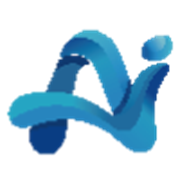
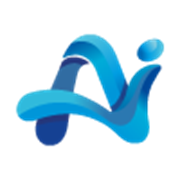
홈 화면 설치 버튼 추가 + 앱 아이콘 로고 교체
- 하단 탭 혜택 옆에 "설치" 버튼 추가: 지원 브라우저는 네이티브 설치
  프롬프트를 띄우고, 그 외(iOS 등)는 홈 화면 추가 방법을 안내하는
  모달을 보여줌. 이미 설치된 상태면 버튼은 숨김
- 설치 가능성을 높이기 위해 최소 서비스워커(sw.js, 프로덕션 전용 등록)와
  iOS PWA 메타태그 추가
- 새로 전달받은 로고로 파비콘/앱 아이콘 전체 재생성

Changed region(s): [[0.0278, 0.1389, 0.9722, 0.8611]]

diff --git a/src/components/InstallButton.tsx b/src/components/InstallButton.tsx
@@ -1,0 +1,116 @@
+import { useState } from "react";
+import { createPortal } from "react-dom";
+import { useInstallPrompt } from "../hooks/useInstallPrompt";
+import { logEvent } from "../lib/analytics";
+import styles from "./InstallButton.module.scss";
+
+export function InstallButton() {
+	const { installed, canPrompt, isIos, promptInstall } = useInstallPrompt();
+	const [showGuide, setShowGuide] = useState(false);
+	// Not a real page like the other tabs, so there's no "current tab" to
+	// stay highlighted — it's just pressed-feedback for as long as the
+	// install prompt/guide is open, then back to gray once that's done,
+	// whether the visitor installed or cancelled.
+	const [pressed, setPressed] = useState(false);
+
+	// Already running as an installed app — nothing left to offer.
+	if (installed) return null;
+
+	function closeGuide() {
+		setShowGuide(false);
+		setPressed(false);
+	}
+
+	async function handleClick() {
+		setPressed(true);
+		if (canPrompt) {
+			const outcome = await promptInstall();
+			logEvent("install_prompt", { outcome });
+			setPressed(false);
+			return;
+		}
+		logEvent("install_guide_open", { platform: isIos ? "ios" : "other" });
+		setShowGuide(true);
+	}
+
+	return (
+		<>
+			<li>
+				<button
+					type="button"
+					className={`${styles.link} ${pressed ? styles.active : ""}`}
+					onClick={handleClick}
+				>
+					<i className="fas fa-download" />
+					설치
+				</button>
+			</li>
+
+			{showGuide &&
+				createPortal(
+					<div className={styles.overlay} onClick={closeGuide}>
+						<div className={styles.card} onClick={(e) => e.stopPropagation()}>
+							<button
+								type="button"
+								className={styles.close}
+								onClick={closeGuide}
+								aria-label="닫기"
+							>
+								<i className="fas fa-times" />
+							</button>
+
+							<h4 className={styles.title}>홈 화면에 추가하기</h4>
+							<p className={styles.desc}>
+								앱처럼 아이콘을 눌러 바로 열 수 있도록 홈 화면에 추가해보세요.
+							</p>
+
+							{isIos ? (
+								<ol className={styles.steps}>
+									<li>
+										<span className={styles.stepIcon}>
+											<i className="fas fa-share-square" />
+										</span>
+										<span>Safari 하단의 공유 버튼을 눌러주세요.</span>
+									</li>
+									<li>
+										<span className={styles.stepIcon}>
+											<i className="fas fa-plus-square" />
+										</span>
+										<span>메뉴에서 &lsquo;홈 화면에 추가&rsquo;를 선택해주세요.</span>
+									</li>
+									<li>
+										<span className={styles.stepIcon}>
+											<i className="fas fa-check" />
+										</span>
+										<span>오른쪽 위 &lsquo;추가&rsquo;를 누르면 완료돼요.</span>
+									</li>
+								</ol>
+							) : (
+								<ol className={styles.steps}>
+									<li>
+										<span className={styles.stepIcon}>
+											<i className="fas fa-ellipsis-v" />
+										</span>
+										<span>브라우저 메뉴(⋮)를 열어주세요.</span>
+									</li>
+									<li>
+										<span className={styles.stepIcon}>
+											<i className="fas fa-plus-square" />
+										</span>
+										<span>&lsquo;앱 설치&rsquo; 또는 &lsquo;홈 화면에 추가&rsquo;를 선택해주세요.</span>
+									</li>
+									<li>
+										<span className={styles.stepIcon}>
+											<i className="fas fa-check" />
+										</span>
+										<span>안내에 따라 추가를 완료해주세요.</span>
+									</li>
+								</ol>
+							)}
+						</div>
+					</div>,
+					document.body,
+				)}
+		</>
+	);
+}

diff --git a/src/components/InstallButton.module.scss b/src/components/InstallButton.module.scss
@@ -1,0 +1,142 @@
+@use "../styles/tokens" as t;
+
+// Matches BottomNav's .link exactly — this button sits inside the same
+// <ul>, right after 혜택, so it must look like one of the tabs even though
+// it triggers an action instead of switching one.
+.link {
+	display: flex;
+	flex-direction: column;
+	align-items: center;
+	gap: 4px;
+	padding: 7px 14px 6px;
+	border: none;
+	background: transparent;
+	border-radius: t.$radius-sm;
+	font-family: inherit;
+	font-size: 0.62rem;
+	font-weight: 700;
+	color: t.$text-faint;
+	cursor: pointer;
+	transition: color 0.15s ease, background 0.15s ease, transform 0.15s ease;
+	min-width: 52px;
+
+	i {
+		font-size: 1.08rem;
+	}
+
+	&:active {
+		transform: scale(0.94);
+	}
+
+	&.active {
+		color: t.$teal-dark;
+		background: rgba(46, 186, 174, 0.1);
+	}
+}
+
+@keyframes installOverlayIn {
+	from {
+		opacity: 0;
+	}
+}
+
+@keyframes installCardIn {
+	from {
+		opacity: 0;
+		transform: translateY(10px) scale(0.97);
+	}
+}
+
+.overlay {
+	position: fixed;
+	inset: 0;
+	z-index: 60;
+	display: flex;
+	align-items: flex-end;
+	justify-content: center;
+	padding: 0;
+	background: rgba(16, 20, 30, 0.55);
+	backdrop-filter: blur(2px);
+	animation: installOverlayIn 0.2s ease;
+
+	@media (min-width: 481px) {
+		align-items: center;
+		padding: 20px;
+	}
+}
+
+.card {
+	position: relative;
+	width: 100%;
+	max-width: 400px;
+	background: t.$card;
+	border-radius: t.$radius-lg t.$radius-lg 0 0;
+	padding: 22px 22px calc(env(safe-area-inset-bottom, 0px) + 22px);
+	box-shadow: t.$shadow-lg;
+	animation: installCardIn 0.25s cubic-bezier(0.16, 1, 0.3, 1);
+
+	@media (min-width: 481px) {
+		border-radius: t.$radius-lg;
+	}
+}
+
+.close {
+	position: absolute;
+	top: 12px;
+	right: 12px;
+	width: 28px;
+	height: 28px;
+	border-radius: 50%;
+	border: none;
+	background: t.$bg;
+	color: t.$text-mute;
+	display: flex;
+	align-items: center;
+	justify-content: center;
+	cursor: pointer;
+
+	&:active {
+		background: t.$border;
+	}
+}
+
+.title {
+	margin: 0 0 6px;
+	font-size: 1.08rem;
+}
+
+.desc {
+	margin: 0 0 18px;
+	font-size: 0.86rem;
+	color: t.$text-mute;
+}
+
+.steps {
+	display: flex;
+	flex-direction: column;
+	gap: 12px;
+	margin: 0;
+	padding: 0;
+	list-style: none;
+
+	li {
+		display: flex;
+		align-items: center;
+		gap: 12px;
+		font-size: 0.88rem;
+		color: t.$text;
+	}
+}
+
+.stepIcon {
+	flex: 0 0 auto;
+	width: 32px;
+	height: 32px;
+	border-radius: 50%;
+	display: flex;
+	align-items: center;
+	justify-content: center;
+	background: t.$teal-tint;
+	color: t.$teal-dark;
+	font-size: 0.85rem;
+}

diff --git a/src/hooks/useInstallPrompt.ts b/src/hooks/useInstallPrompt.ts
@@ -1,0 +1,60 @@
+import { useCallback, useEffect, useState } from "react";
+
+// Chrome/Edge fire this before showing their own install UI; capturing it
+// lets us trigger the native prompt from our own button instead. Not yet
+// part of the standard TS DOM lib.
+interface BeforeInstallPromptEvent extends Event {
+	prompt: () => Promise<void>;
+	userChoice: Promise<{ outcome: "accepted" | "dismissed"; platform: string }>;
+}
+
+function isIos(): boolean {
+	if (typeof navigator === "undefined") return false;
+	return /iphone|ipad|ipod/i.test(navigator.userAgent) && !("MSStream" in window);
+}
+
+function isStandalone(): boolean {
+	if (typeof window === "undefined") return false;
+	return (
+		window.matchMedia("(display-mode: standalone)").matches ||
+		// iOS Safari's legacy standalone flag — no display-mode support there.
+		(window.navigator as Navigator & { standalone?: boolean }).standalone === true
+	);
+}
+
+export function useInstallPrompt() {
+	const [deferredPrompt, setDeferredPrompt] = useState<BeforeInstallPromptEvent | null>(null);
+	const [installed, setInstalled] = useState(isStandalone);
+
+	useEffect(() => {
+		function handleBeforeInstallPrompt(event: Event) {
+			event.preventDefault();
+			setDeferredPrompt(event as BeforeInstallPromptEvent);
+		}
+		function handleAppInstalled() {
+			setInstalled(true);
+			setDeferredPrompt(null);
+		}
+		window.addEventListener("beforeinstallprompt", handleBeforeInstallPrompt);
+		window.addEventListener("appinstalled", handleAppInstalled);
+		return () => {
+			window.removeEventListener("beforeinstallprompt", handleBeforeInstallPrompt);
+			window.removeEventListener("appinstalled", handleAppInstalled);
+		};
+	}, []);
+
+	const promptInstall = useCallback(async () => {
+		if (!deferredPrompt) return null;
+		await deferredPrompt.prompt();
+		const { outcome } = await deferredPrompt.userChoice;
+		setDeferredPrompt(null);
+		return outcome;
+	}, [deferredPrompt]);
+
+	return {
+		installed,
+		canPrompt: deferredPrompt !== null,
+		isIos: isIos(),
+		promptInstall,
+	};
+}

diff --git a/index.html b/index.html
@@ -13,6 +13,10 @@
 		/>
 		<meta name="theme-color" content="#1c2233" />
 		<meta name="color-scheme" content="light only" />
+		<meta name="mobile-web-app-capable" content="yes" />
+		<meta name="apple-mobile-web-app-capable" content="yes" />
+		<meta name="apple-mobile-web-app-status-bar-style" content="black-translucent" />
+		<meta name="apple-mobile-web-app-title" content="청년도약부트캠프" />
 		<link rel="canonical" href="https://youth.scnuai.com/" />
 		<link rel="icon" type="image/png" sizes="32x32" href="/favicon-32.png" />
 		<link rel="icon" type="image/png" sizes="16x16" href="/favicon-16.png" />

diff --git a/src/components/BottomNav.tsx b/src/components/BottomNav.tsx
@@ -1,5 +1,6 @@
 import { bottomNav } from "../data/content";
 import { useNavigation } from "../context/NavigationContext";
+import { InstallButton } from "./InstallButton";
 import styles from "./BottomNav.module.scss";
 
 export function BottomNav() {
@@ -20,6 +21,7 @@ export function BottomNav() {
 						</button>
 					</li>
 				))}
+				<InstallButton />
 			</ul>
 			<div className={styles.homeIndicator}>
 				<span />

diff --git a/src/main.tsx b/src/main.tsx
@@ -12,3 +12,11 @@ createRoot(document.getElementById("root")!).render(
 		<App />
 	</StrictMode>,
 );
+
+// Registered only in production — a dev-mode service worker would keep
+// intercepting requests after `npm run dev` restarts and confuse HMR.
+if (import.meta.env.PROD && "serviceWorker" in navigator) {
+	window.addEventListener("load", () => {
+		navigator.serviceWorker.register("/sw.js").catch(() => {});
+	});
+}

diff --git a/public/sw.js b/public/sw.js
@@ -1,0 +1,6 @@
+// Minimal service worker — exists only so the browser counts this site as
+// installable (Chrome's "beforeinstallprompt"/install-banner eligibility
+// looks for a registered worker with a fetch handler). It intentionally
+// does no caching: every request just falls through to the network, so the
+// site never risks serving stale content.
+self.addEventListener("fetch", () => {});
